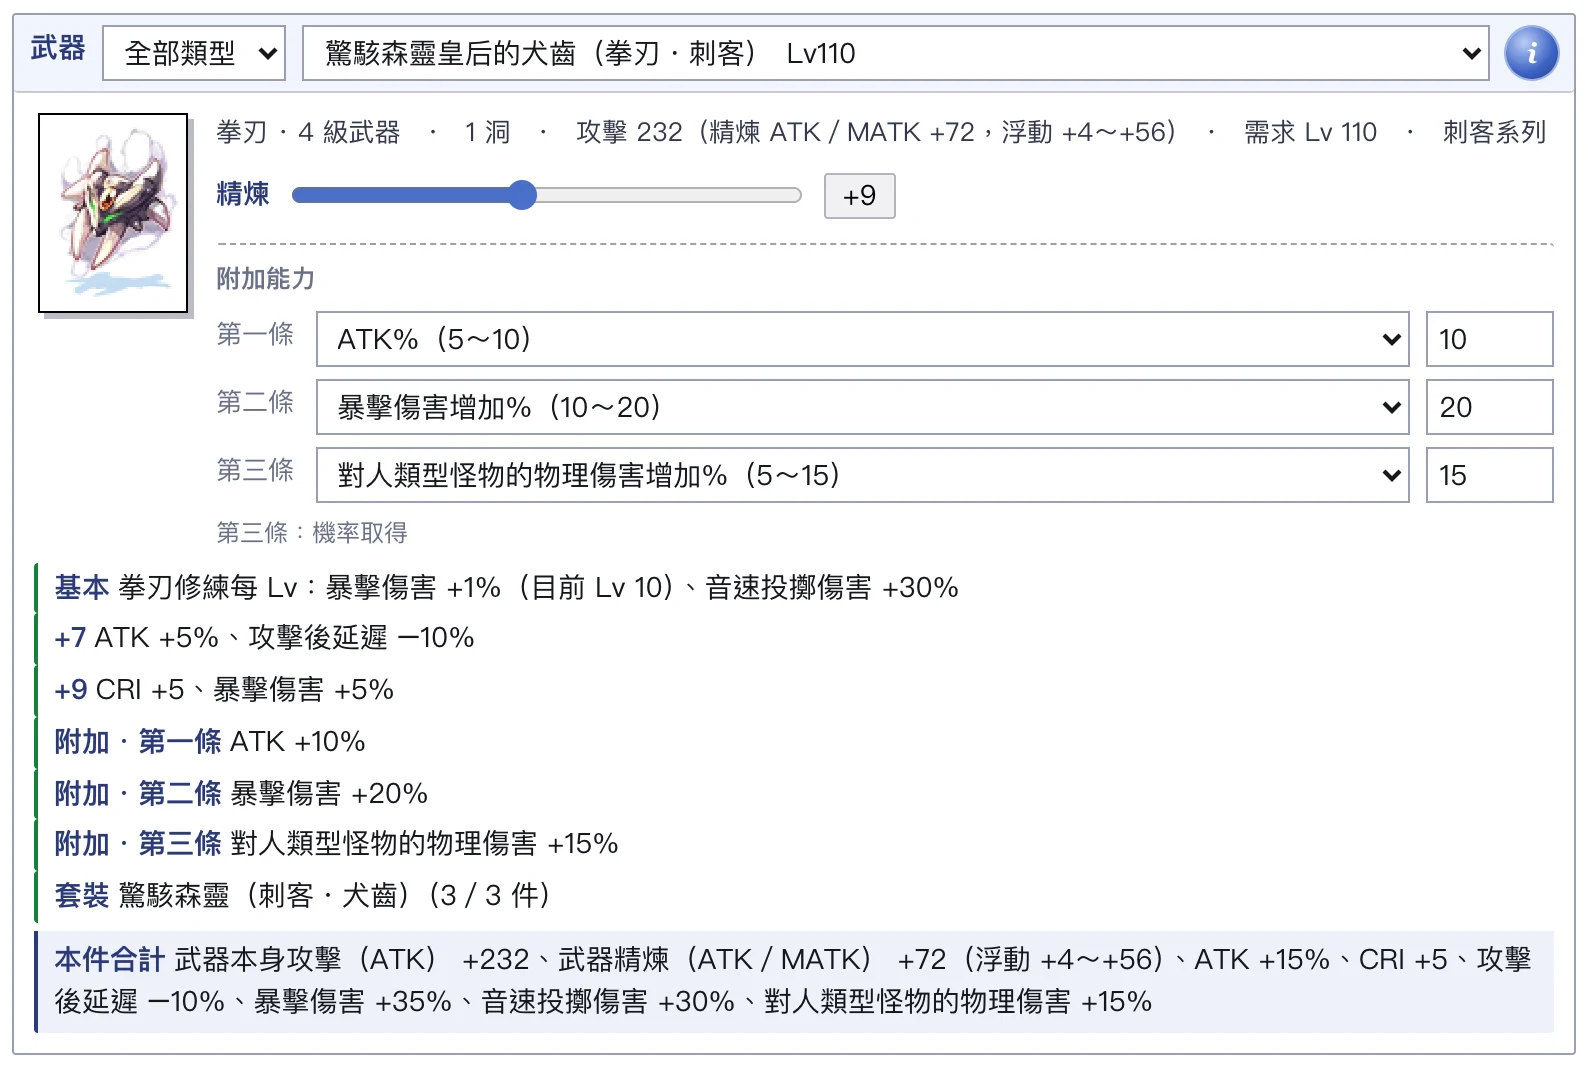
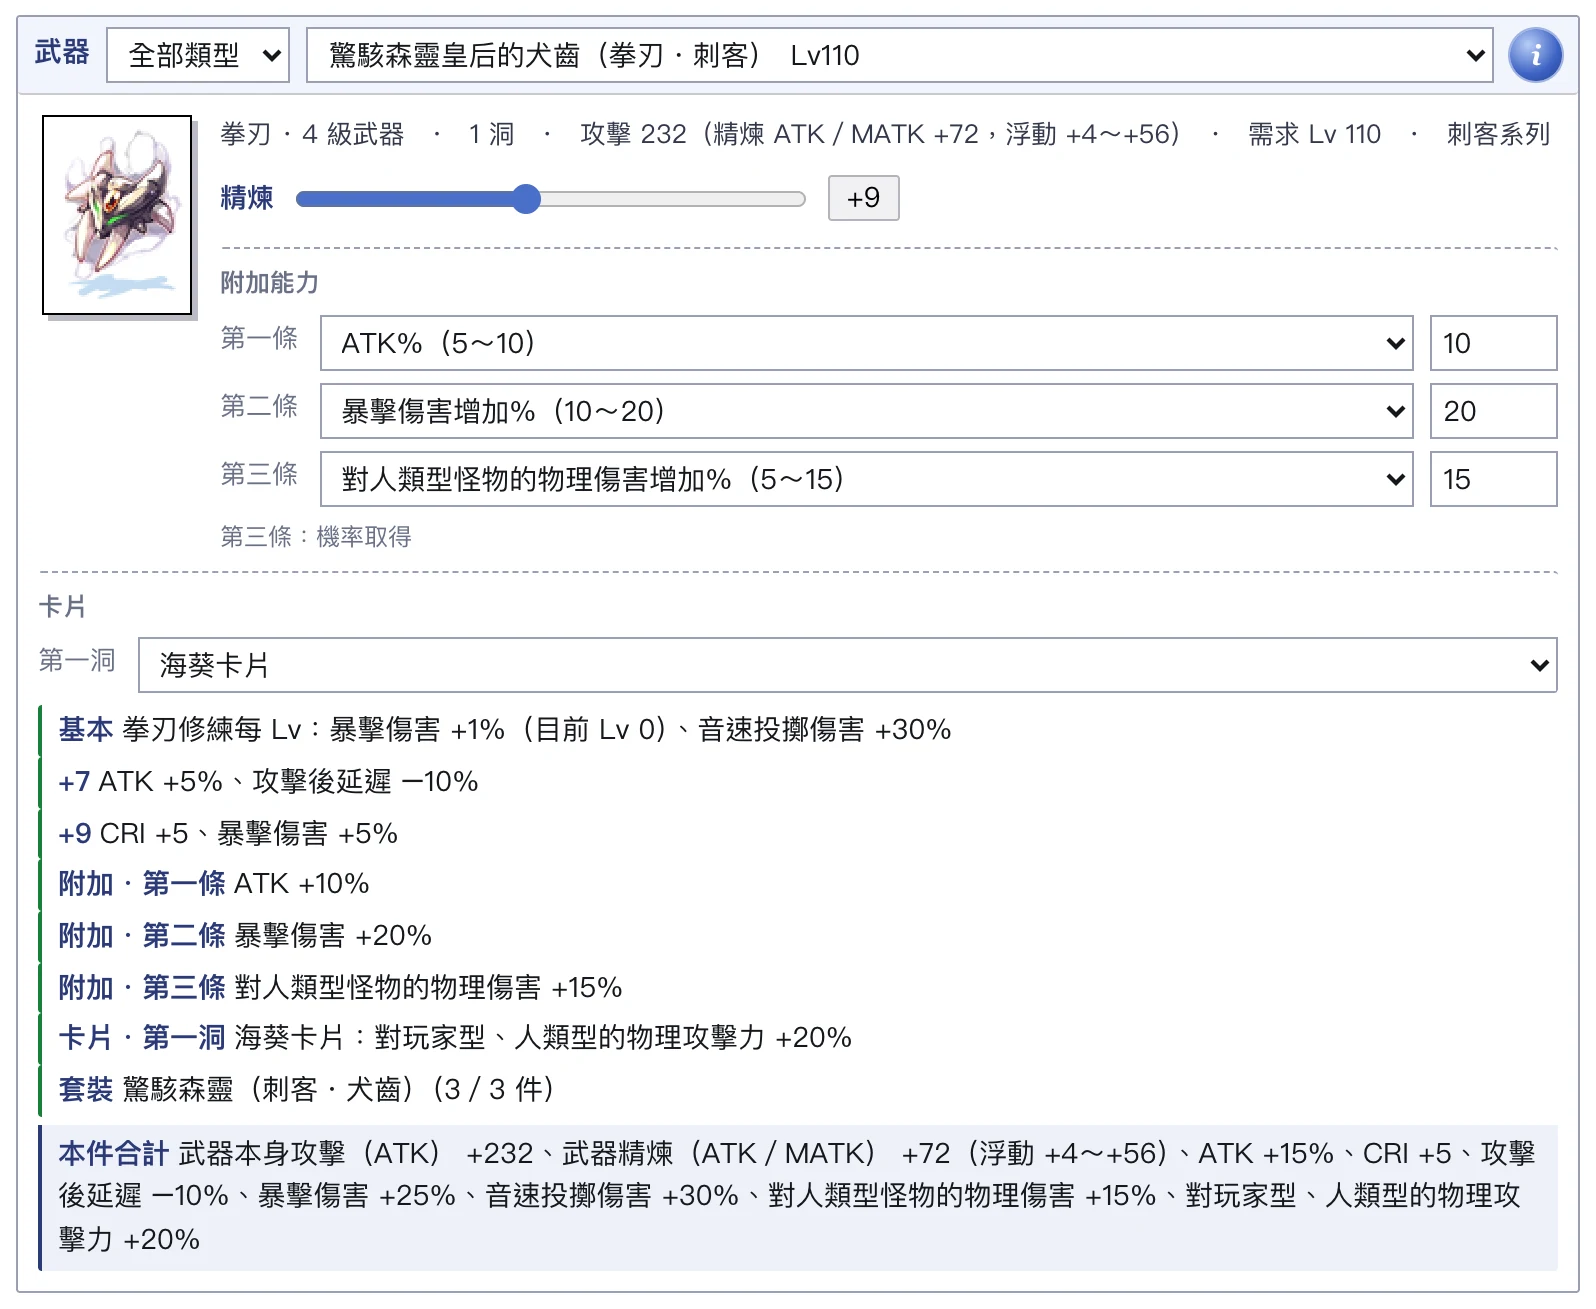
配裝：使用說明更新（卡片、符文石碑、搜尋結果、裝備視窗顯示卡片，重截圖）；「對X型怪物」與「對X型」的傷害標籤合併

Changed region(s): [[0.0, 0.0, 1.0, 0.9897], [0.0, 0.433, 0.0617, 0.4639]]

diff --git a/public/gear-guide.html b/public/gear-guide.html
@@ -58,11 +58,13 @@
       <li><a href="#settings">2. 角色、設定與人物狀態</a></li>
       <li><a href="#equip">3. 裝備視窗</a></li>
       <li><a href="#slot">4. 精煉、附魔、附加能力</a></li>
-      <li><a href="#info">5. 物品資訊視窗</a></li>
-      <li><a href="#special">6. 特殊裝備</a></li>
-      <li><a href="#totals">7. 能力加總</a></li>
-      <li><a href="#share">8. 存檔與分享</a></li>
-      <li><a href="#misc">9. 其他</a></li>
+      <li><a href="#card">5. 卡片</a></li>
+      <li><a href="#rune">6. 符文石碑</a></li>
+      <li><a href="#info">7. 物品資訊視窗</a></li>
+      <li><a href="#special">8. 特殊裝備</a></li>
+      <li><a href="#totals">9. 能力加總</a></li>
+      <li><a href="#share">10. 存檔與分享</a></li>
+      <li><a href="#misc">11. 其他</a></li>
     </ul>
     <a class="go" href="gear.html">🧩 開始配裝</a>
   </div>
@@ -72,7 +74,7 @@
     <ol>
       <li><b>選職業、填等級</b>：裝備清單只會列出這個職業、這個等級穿得上的裝備。</li>
       <li><b>點裝備視窗的格子</b>，在下方選裝備、拉精煉。也可以用裝備上方的「一鍵套裝」一次換上整套。</li>
-      <li><b>看右邊的能力加總</b>：所有裝備、精煉、套裝、附魔的能力都已經加好。</li>
+      <li><b>看右邊的能力加總</b>：所有裝備、精煉、套裝、附魔、卡片、符文的能力都已經加好。</li>
     </ol>
     <div class="tip">配裝會自動存在你的瀏覽器裡，下次打開還在；按「分享這組配裝」可以把整組傳給別人。</div>
   </div>
@@ -88,7 +90,7 @@
       <li>新增角色時，會先複製目前畫面上的配裝。</li>
     </ul>
     <div class="two">
-      <figure><img src="guide/g-settings.webp" width="796" height="328" alt="設定區：職業、Base 等級、Job 等級、附魔與技能開關" loading="lazy"><figcaption>設定</figcaption></figure>
+      <figure><img src="guide/g-settings.webp" width="800" height="539" alt="設定區：職業、Base 等級、Job 等級，啟用附魔／卡片／符文／技能樹開關" loading="lazy"><figcaption>設定</figcaption></figure>
       <figure><img src="guide/g-status.webp" width="392" height="303" alt="人物狀態：六項素質與 ATK、MATK、HIT、CRI、DEF、MDEF、FLEE、ASPD" loading="lazy"><figcaption>人物狀態</figcaption></figure>
     </div>
     <h3 class="sub-h">設定</h3>
@@ -96,8 +98,8 @@
       <li><b>職業／Base 等級</b>：決定清單裡出現哪些裝備；依職業生效的效果（例如巴基力防具、異世之靈 +9）也會跟著換。</li>
       <li><b>Job 等級</b>：用來查職業的素質加成。</li>
       <li><b>啟用附魔</b>：開啟後，各部位會出現附魔與附加能力的選單。</li>
-      <li><b>啟用卡片</b>：打開後，有洞的裝備可以插卡。</li>
-      <li><b>啟用符文</b>：打開後選裝備的符文石碑（同時只能裝 1 組）和強化等級（+0～+15），效果依強化等級累加。</li>
+      <li><b>啟用卡片</b>：打開後，有洞的裝備可以插卡，見 <a href="#card">第 5 節</a>。</li>
+      <li><b>啟用符文</b>：打開後選符文石碑和強化等級，見 <a href="#rune">第 6 節</a>。</li>
       <li><b>啟用技能樹</b>：開啟後出現技能樹。「習得某技能時」（例如艾音布羅克武器 +9）和「某技能每 Lv…」（例如驚駭森靈皇后武器、職業精髓附魔）的效果，照技能樹的點數計算。</li>
     </ul>
     <h3 class="sub-h">技能樹</h3>
@@ -117,32 +119,65 @@
   <div class="card" id="equip">
     <h2>3. 裝備視窗</h2>
     <figure><img src="guide/g-tools.webp" width="798" height="72" alt="裝備上方：搜尋裝備、一鍵套裝、整套精煉" loading="lazy"><figcaption>裝備上方：搜尋、一鍵套裝、整套精煉</figcaption></figure>
-    <figure><img src="guide/g-equip.webp" width="794" height="244" alt="裝備視窗：左右兩欄共十格，中間是職業與 ATK、MATK、DEF" loading="lazy"><figcaption>一般裝備（10 格）</figcaption></figure>
+    <figure><img src="guide/g-equip.webp" width="798" height="248" alt="裝備視窗：左右兩欄共十格，部位名稱後面是插著的卡片，中間是職業與 ATK、MATK、DEF" loading="lazy"><figcaption>一般裝備（10 格）</figcaption></figure>
     <ul>
       <li>格子的位置和遊戲的裝備視窗一樣：左欄是頭上、頭下、武器、披肩、飾品（右）；右欄是頭中、鎧甲、左手、鞋子、飾品（左）。</li>
       <li><b>點一下格子</b>：下方會顯示這個部位的詳細設定。</li>
+      <li>部位名稱後面的<b style="color:#8a5bbd">紫色字</b>是插著的卡片（同一張插好幾張會寫「×3」）。</li>
       <li>灰色、括號裡的名稱代表這格被別的裝備佔用（例如頭上、頭中一體的頭飾、雙手武器）。</li>
       <li>中間顯示目前的職業、等級和 ATK／MATK／DEF 小計。</li>
-      <li>上方切換「一般裝備／特殊裝備」，特殊裝備見 <a href="#special">第 6 節</a>。</li>
-      <li><b>搜尋裝備／卡片</b>：打字後下面會列出符合的裝備和卡片，點一下就穿上或插到有空洞的裝備（方向鍵＋Enter 也可以）。<b>一鍵套裝</b>：選一組就把整套換上。<b>整套精煉</b>：把所有可精煉的裝備一次改成同一個精煉值，之後還能個別調整。</li>
+      <li>上方切換「一般裝備／特殊裝備」，特殊裝備見 <a href="#special">第 8 節</a>。</li>
+      <li><b>搜尋裝備／卡片</b>：打字後下面會列出符合的裝備和卡片，右邊寫著會放到哪個部位；點一下就穿上或插卡（方向鍵＋Enter 也可以）。職業、等級穿不了的不會列出，但會註明有幾件。<b>一鍵套裝</b>：選一組就把整套換上。<b>整套精煉</b>：把所有可精煉的裝備一次改成同一個精煉值，之後還能個別調整。</li>
     </ul>
+    <figure><img src="guide/g-search.webp" width="356" height="432" alt="搜尋結果：上面是裝備，下面是卡片，右邊是會放到的部位" loading="lazy" style="max-width:360px"><figcaption>搜尋「波利」：裝備和卡片都會列出來</figcaption></figure>
   </div>
 
   <div class="card" id="slot">
     <h2>4. 精煉、附魔、附加能力</h2>
-    <figure><img src="guide/g-slot.webp" width="794" height="533" alt="部位詳細：選裝備、精煉拉霸、附加能力與效果清單" loading="lazy"><figcaption>選中的部位</figcaption></figure>
+    <figure><img src="guide/g-slot.webp" width="798" height="655" alt="部位詳細：選裝備、精煉拉霸、附加能力、卡片與效果清單" loading="lazy"><figcaption>選中的部位</figcaption></figure>
     <ul>
       <li><b>最上面的選單</b>選裝備；武器可以先用「全部類型」篩選武器種類。</li>
       <li><b>精煉</b>：拉動拉霸，效果清單即時更新。</li>
-      <li><b>卡片</b>：打開「啟用卡片」後，有洞的裝備會出現卡片選單（只列可以插在這個部位的卡，分一般、Boss、MVP 卡片），效果自動加總；「和 X 卡片一起裝備時」的套卡湊齊也會自動計算，列在「套裝／搭配」。</li>
+      <li><b>卡片</b>：打開「啟用卡片」後，有洞的裝備下方會出現「第一洞、第二洞…」，詳見 <a href="#card">第 5 節</a>。</li>
       <li><b>附魔／附加能力</b>：打開「啟用附魔」後出現。附加能力選完項目後，右邊的框可以填數值（預設最大值）。</li>
       <li>效果清單的顏色：<b style="color:var(--green)">綠色</b>＝已生效，<b style="color:#f59e0b">橘色</b>＝下一個精煉門檻，灰色＝還沒達到。</li>
       <li>最下面的<b>本件合計</b>是這件裝備目前實際給的全部能力。</li>
     </ul>
   </div>
 
+  <div class="card" id="card">
+    <h2>5. 卡片</h2>
+    <ul>
+      <li>打開設定裡的<b>「啟用卡片」</b>。有洞的裝備會依洞數出現「第一洞、第二洞…」選單，只列可以插在這個部位的卡，分成<b>一般卡片、Boss 卡片、MVP 卡片</b>三組。</li>
+      <li><b>同一張卡可以重複插</b>，效果每張各算一次。</li>
+      <li><b>用搜尋插卡</b>：在「搜尋裝備／卡片」打卡名，點一下就插到第一件部位相符、還有空洞的裝備；洞都插滿時會寫「換掉…第幾洞」。</li>
+      <li>卡片收錄遊戲客戶端裡全部 388 張，效果由遊戲內說明自動換算，下面這些條件都會照你的配裝計算：
+        <ul>
+          <li>精煉值：「精煉每 +1」「精煉 +9 以上」「精煉 +5 以下」「盾牌精煉每 +1」。</li>
+          <li>武器種類（「武器為鈍器時」）、職業（「盜賊系列裝備時」）。</li>
+          <li>純素質：「基礎 DEX 每 18 點」「基礎 AGI 90 以上」，看人物狀態填的數字。</li>
+          <li>寵物戒指的寵物附魔：「搭配廢柴魔物蛋 Lv.2 時」。</li>
+        </ul>
+      </li>
+      <li>機率觸發、擊殺掉落、自動施放技能等算不出數值的效果，會列在能力加總的「其他效果」。</li>
+      <li><b>套卡</b>：「和 X 卡片一起裝備時」湊齊就自動加總；能力加總的「套裝／搭配」會顯示已湊齊的套卡，以及只差幾張的套卡缺哪張。</li>
+    </ul>
+  </div>
+
+  <div class="card" id="rune">
+    <h2>6. 符文石碑</h2>
+    <figure><img src="guide/g-rune.webp" width="778" height="256" alt="符文石碑：選石碑、強化等級、最高按鈕與完整強化說明" loading="lazy"><figcaption>選石碑與強化等級，下面列出完整強化說明</figcaption></figure>
+    <ul>
+      <li>打開設定裡的<b>「啟用符文」</b>，選目前裝備的石碑。選單依遊戲的頁籤分成 Ⅰ～Ⅳ，名稱後面是 +0 時的效果。</li>
+      <li>和遊戲一樣<b>同時只能裝 1 組</b>。</li>
+      <li><b>強化</b>填你目前的強化等級（+0～+15），按「最高」直接設成 +15。效果是一路累加的：例如廢礦 +12＝基本 5%＋強化 +11 的 1%＋強化 +12 的 2%。</li>
+      <li>下面列出這組的完整強化說明，已達到的等級會打勾。</li>
+      <li>32 組石碑的數值取自遊戲客戶端（System\Rune）。</li>
+    </ul>
+  </div>
+
   <div class="card" id="info">
-    <h2>5. 物品資訊視窗</h2>
+    <h2>7. 物品資訊視窗</h2>
     <div class="two">
       <figure><img src="guide/g-info.webp" width="470" height="681" alt="物品資訊視窗：物品圖、遊戲內說明、附魔與本件合計" loading="lazy"><figcaption>物品資訊視窗</figcaption></figure>
       <div>
@@ -154,7 +189,7 @@
         <p>視窗內容：</p>
         <ul>
           <li>物品大圖和<b>遊戲內說明原文</b>（標題的 [數字] 是洞數）。</li>
-          <li>這件裝備目前的<b>附魔、附加能力</b>。</li>
+          <li>這件裝備目前的<b>附魔、附加能力、卡片</b>。</li>
           <li><b>本件合計</b>：精煉、附魔都算進去的實際能力。</li>
         </ul>
         <p>拖曳標題列可以移動視窗；點視窗外面、按 <kbd>Esc</kbd> 或右上角的圓鈕關閉。</p>
@@ -163,12 +198,12 @@
   </div>
 
   <div class="card" id="special">
-    <h2>6. 特殊裝備</h2>
+    <h2>8. 特殊裝備</h2>
     <figure><img src="guide/g-special.webp" width="794" height="244" alt="特殊裝備頁：服飾附魔石、典藏板、寵物戒指、幸運髮飾" loading="lazy"><figcaption>裝備視窗切到「特殊裝備」</figcaption></figure>
     <ul>
       <li><b>服飾頭飾（上／中／下）、服飾披肩</b>：選服飾附魔石（照官方服飾附魔指南）。職業石只會列出目前職業的；同系列湊齊會自動算搭配效果（例如三顆攻擊石 ATK 再 +2%）。</li>
       <li><b>典藏板</b>：可精煉到 +10，每 +1 給對應能力（要插滿同系列 4 張卡片才生效）。</li>
-      <li><b>寵物戒指</b>（飼養戒指）：一般魔物、MVP 魔物各選一隻，Lv1 或 Lv2。</li>
+      <li><b>寵物戒指</b>（飼養戒指）：一般魔物、MVP 魔物各選一隻，Lv1 或 Lv2。部分聯名卡片會看這裡選的寵物（例如廢柴、太子）。</li>
       <li><b>幸運髮飾</b>：四洞附魔與附加能力（只在隱世地圖、MVP-PK 棲息地、公會密穴生效）。</li>
     </ul>
     <div class="two">
@@ -179,35 +214,35 @@
   </div>
 
   <div class="card" id="totals">
-    <h2>7. 能力加總</h2>
+    <h2>9. 能力加總</h2>
     <div class="two">
-      <figure><img src="guide/g-totals.webp" width="372" height="1259" alt="能力加總：基本能力、技能條件加成、其他效果、套裝" loading="lazy"><figcaption>電腦版固定在右側；手機版在最下面，底部有摘要列</figcaption></figure>
+      <figure><img src="guide/g-totals.webp" width="376" height="1713" alt="能力加總：基本能力、技能條件加成、其他效果、套裝與套卡" loading="lazy"><figcaption>電腦版固定在右側；手機版在最下面，底部有摘要列</figcaption></figure>
       <div>
         <ul>
           <li><b>上半部</b>：STR、ATK、MHP、CRI、攻擊後延遲等可以直接加總的能力。武器精煉加的 ATK／MATK 會註明在後面。</li>
           <li><b>技能／條件加成</b>：只對特定技能、屬性、種族、體型的敵人生效的加成（例如音速投擲傷害、對人類型怪物傷害）。</li>
           <li><b>其他效果</b>：機率觸發、需要條件、沒辦法加總的效果，右邊是來源裝備。</li>
-          <li><b>套裝／搭配</b>：已穿齊的打勾；沒穿齊的會列出還缺哪幾件、精煉總和還差多少。</li>
+          <li><b>套裝／搭配</b>：已穿齊的打勾；沒穿齊的會列出還缺哪幾件、精煉總和還差多少。套卡也列在這裡。</li>
         </ul>
       </div>
     </div>
   </div>
 
   <div class="card" id="share">
-    <h2>8. 存檔與分享</h2>
+    <h2>10. 存檔與分享</h2>
     <ul>
       <li>配裝<b>自動存在這台裝置的瀏覽器</b>（每個角色各一份），不會上傳；換裝置或清除瀏覽器資料就會消失。</li>
-      <li>按能力加總最下面的<b>「分享這組配裝」</b>，會複製一個連結（手機會叫出分享選單）。連結裡包含裝備、精煉、附魔、技能等級等全部設定。</li>
+      <li>按能力加總最下面的<b>「分享這組配裝」</b>，會複製一個連結（手機會叫出分享選單）。連結裡包含裝備、精煉、附魔、卡片、符文、技能點等全部設定。</li>
       <li>別人打開你的連結時，畫面上方會提示「正在檢視分享的配裝」，修改不會蓋掉他自己的配裝；想留下來就按「存成我的配裝」。</li>
     </ul>
   </div>
 
   <div class="card" id="misc">
-    <h2>9. 其他</h2>
+    <h2>11. 其他</h2>
     <figure><img src="guide/g-mobile.webp" width="352" height="278" alt="手機版裝備視窗" loading="lazy"><figcaption>手機版：中間的職業資訊移到上方，裝備排成兩欄</figcaption></figure>
     <ul>
       <li><b>版面切換</b>：右上角「🖥 一般版面／🎮 遊戲版面」。所有頁面預設遊戲版面；配裝（含技能樹）和其他頁面分開記。</li>
-      <li><b>資料來源</b>：裝備數值、洞數、圖示與說明取自樂園客戶端與官方遊戲指南，已逐件核對；實際數值仍以遊戲內為準。</li>
+      <li><b>資料來源</b>：裝備數值、洞數、圖示與說明取自樂園客戶端與官方遊戲指南，已逐件核對；卡片、符文石碑、技能樹取自客戶端；卡片的一般／Boss／MVP 分類對照 rAthena 的怪物資料。實際數值仍以遊戲內為準。</li>
       <li>發現數值不對或有缺的裝備，請按頁面下方的「🐞 回報問題」，或 DC 私訊 <b>zhuge0520</b>。</li>
     </ul>
     <a class="go" href="gear.html">🧩 開始配裝</a>

diff --git a/public/gear.html b/public/gear.html
@@ -572,7 +572,7 @@ function splitLabel(label) {
 }
 // 同一種效果在遊戲內有不同寫法，加總時統一成同一個名稱
 const C_ALIAS = { '十字驅魔傷害': '十字驅魔攻擊傷害', '強酸投擲傷害': '強酸攻擊傷害', '對暗屬性攻擊抗性': '暗屬性攻擊抗性' };
-const normLabel = x => { x = x.replace(/的?物理攻擊力$/, '的物理傷害').replace(/(型|族|屬性)(?:魔物|敵人)的(物理|魔法|物理／魔法)?傷害/, '$1的$2傷害').replace(/^對(.+?屬性)(?:攻擊)?的抗性$/, '$1攻擊抗性').replace(/^受(?!到)/, '受到').replace('的所有傷害', '的傷害').replace(/(敵人|魔物)((?:物理|魔法|物理／魔法)?傷害#?)$/, '$1的$2'); return C_ALIAS[x] || x; };
+const normLabel = x => { x = x.replace(/的?物理攻擊力$/, '的物理傷害').replace(/(型|族|屬性)(?:魔物|敵人|怪物)的(物理|魔法|物理／魔法)?傷害/, '$1的$2傷害').replace(/^對(.+?屬性)(?:攻擊)?的抗性$/, '$1攻擊抗性').replace(/^受(?!到)/, '受到').replace('的所有傷害', '的傷害').replace(/(敵人|魔物)((?:物理|魔法|物理／魔法)?傷害#?)$/, '$1的$2'); return C_ALIAS[x] || x; };
 function splitC(c) { const o = {}; for (const [k, v] of Object.entries(c || {})) for (const x of splitLabel(k).map(normLabel)) o[x] = (o[x] || 0) + v; return o; }
 const pfTimes = (it, r) => it.pf ? Math.max(0, r - it.pf[0] + 1) : 0;
 function add(to, eff, notes) {

diff --git a/tools/guide/demo.js b/tools/guide/demo.js
@@ -15,5 +15,14 @@
   put('spBoard', '夜歌-繪師典藏板', 0); st.slots.spBoard.r = 10;
   put('spPet', '飼養戒指', 0); st.slots.spPet.e = ['溜溜猴 Lv2', '獸人英雄 Lv2'];
   put('spLucky', '幸運髮飾', 0);
+  // 卡片（啟用卡片）：飾品左右湊「驚駭森靈＋黑暗驚駭森靈」套卡
+  st.card = true;
+  const cid = n => +Object.keys(CARDS).find(k => CARDS[k].n === n);
+  const firstOf = p => +Object.keys(CARDS).find(k => CARDS[k].p === p && !CARDS[k].c && Object.keys(CARDS[k].e).some(x => x !== '_t'));
+  st.slots.weapon.cd = [cid('海葵卡片')]; st.slots.armor.cd = [cid('馬克卡片')]; st.slots.garment.cd = [cid('獸人嬰兒卡片')];
+  st.slots.shoes.cd = [firstOf('shoes')]; st.slots.accR.cd = [cid('驚駭森靈卡片')]; st.slots.accL.cd = [cid('黑暗驚駭森靈卡片')];
+  // 符文石碑（啟用符文）：Ⅳ 廢礦 +12
+  st.rune = true; st.rs = RUNE_SETS.find(x => x.n === '廢礦').id; st.rl = 12;
+  $('useCard').checked = true; $('useRune').checked = true;
   save(); syncInputs(); render();
 })();
